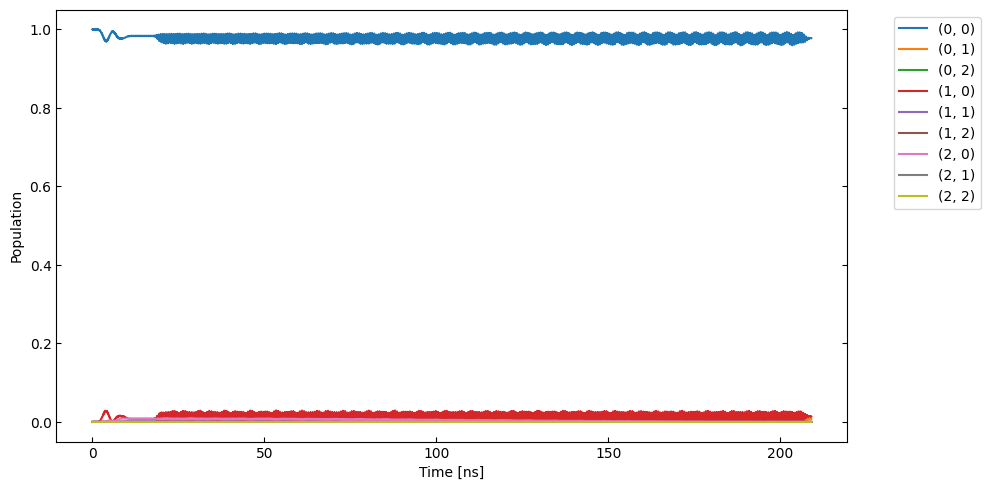
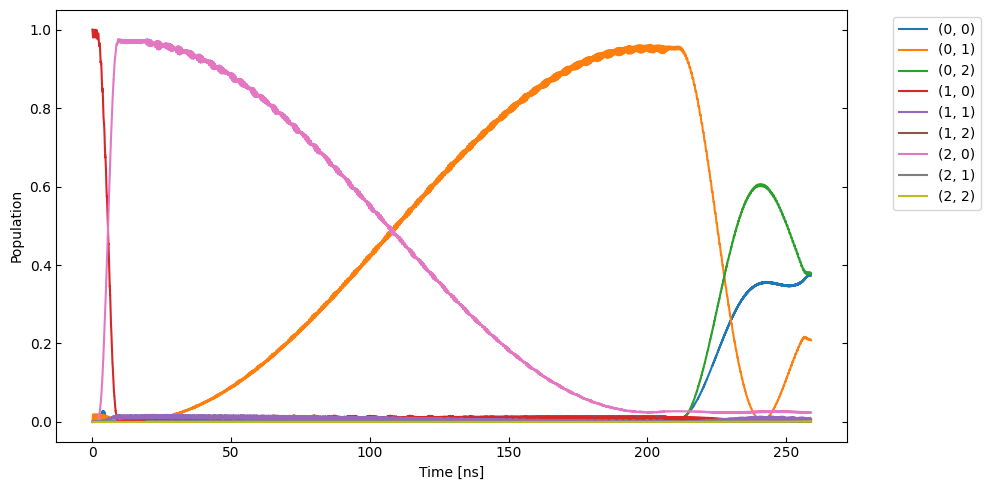
Corrected full_simulation

diff --git a/Ashutosh_codes/Full_simulation.py b/Ashutosh_codes/Full_simulation.py
@@ -444,7 +444,7 @@ exp.set_opt_gates(["swap[0, 1]", 'Readout[1]'])
 
 model.set_FR(False)
 model.set_lindbladian(True)
-exp.propagate_batch_size = 1000
+exp.propagate_batch_size = 100
 
 #%%
 unitaries = exp.compute_propagators()
@@ -584,7 +584,7 @@ opt = OptimalControl(
     run_name="swap_and_readout",
     fid_func_kwargs={"params":fid_params}
 )
-exp.set_opt_gates(["Readout[1]"])
+exp.set_opt_gates(["swap[0, 1]", "Readout[1]"])
 opt.set_exp(exp)
 
 
